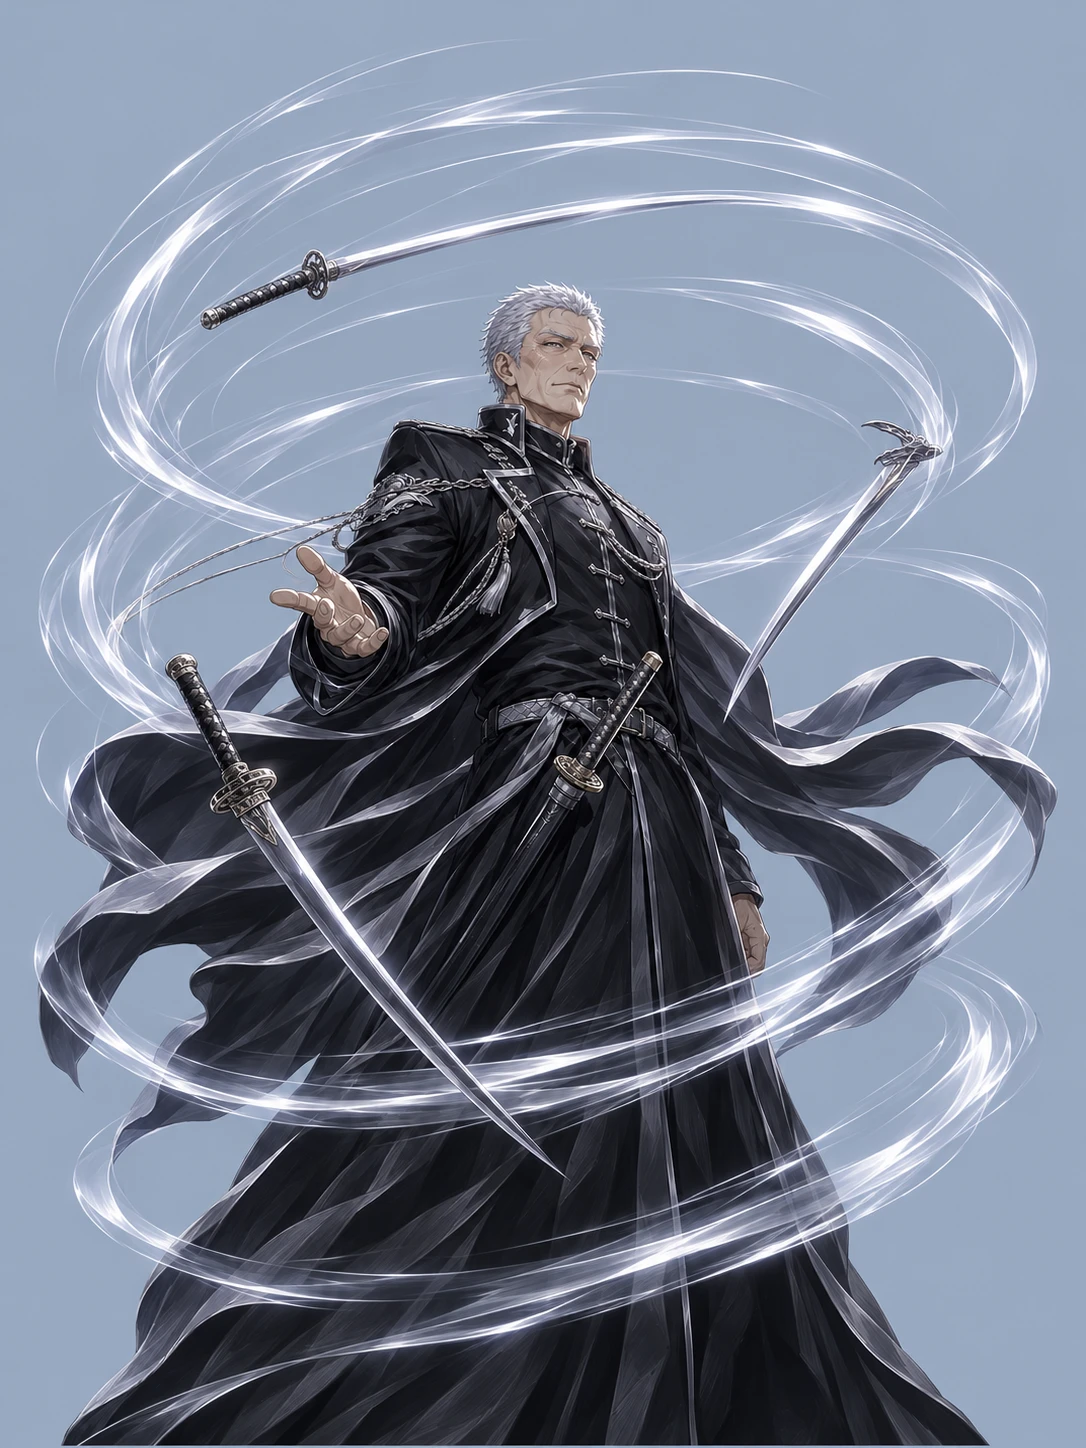
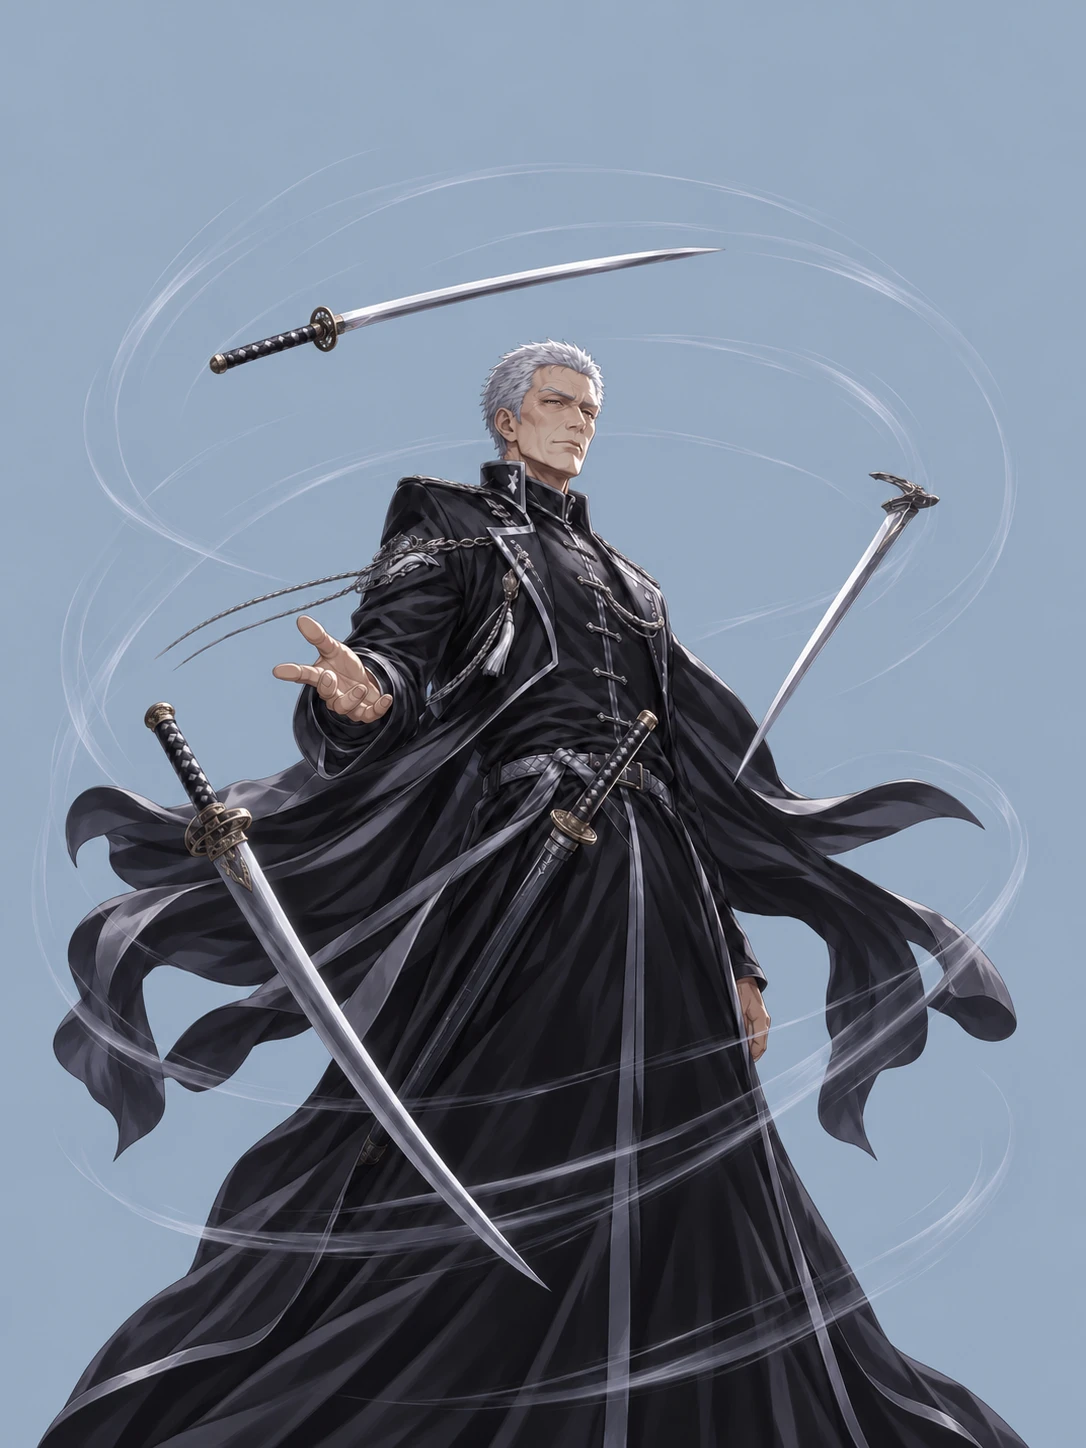
chore(preview): publish batch_jianshen_qi_v2 lighter 5-tier sword-qi picker

diff --git a/portrait-picker-jianshen/index.html b/portrait-picker-jianshen/index.html
@@ -3,7 +3,7 @@
 <head>
 <meta charset="UTF-8">
 <meta name="viewport" content="width=device-width, initial-scale=1.0">
-<title>剑神重抽 5 选 1（原图周身大环形银白剑气还原）</title>
+<title>剑神剑气淡化版 5 选 1（以原 #01 为对照 · 5 档清淡梯度）</title>
 <style>
 /* ==========================================================================
    《转生千金》立绘 5 选 1 交互审图工坊 · 棱镜冰晶雪瓷视觉体系
@@ -2172,7 +2172,7 @@ body.view-large .btn-zoom .zoom-txt {
 
 <div class="toast" id="toast" role="status" aria-live="polite"></div>
 
-<script id="showcase-data" type="application/json">{"batch_id":"batch_jianshen_qi","batch_label":"剑神重抽 5 选 1（原图周身大环形银白剑气还原）","title":"剑神重抽 5 选 1（原图周身大环形银白剑气还原）","subtitle":"以原初未抠神图为基准，完整还原环绕周身的大幅同心银白剑气环弧与四柄佩剑/飞剑，换净为偏中浅冷银灰蓝纯平底 #A6B5C7，左右顶安全留边、下摆贴底","characters":[{"id":"jianshen_normal","name":"剑神","role_tag":"七大列强 · 剑道极巅（年长男性）","sample_line":"剑意不在虚张声势。站稳了，接我这一眼看看。","original":{"src":"img/jianshen_normal/original.webp","defect":"精准还原原初未抠神图环绕周身（掠过头后、身侧与下摆）的大幅同心银白剑气弧光环阵与四剑构型，将暗风暴实景彻底洗净为偏中浅冷银灰蓝纯平底 #A6B5C7（衬托淡白剑气并兼顾同色系零溢色外抠），微退镜头完整收拢剑气环零切边","metrics":{"width":1024,"height":1536,"aspect":"2:3","margin_l":0.0,"margin_r":0.0,"margin_t":0.0,"margin_b":0.0,"bg_std":63.9,"bg_hex":"#12161f","is_transparent":false}},"candidates":[{"index":1,"label":"#01","src":"img/jianshen_normal/cand_01.webp","tag":"环弧标准版 #01 · 忠实复刻周身大环","note":"均衡还原原图周身多层同心银白剑气轨迹弧光与通透质感，左右顶留边、下摆贴底","metrics":{"width":1086,"height":1448,"aspect":"3:4","margin_l":2.7,"margin_r":5.0,"margin_t":10.4,"margin_b":0.0,"bg_std":0.8,"bg_hex":"#99AAC1","is_transparent":false}},{"index":2,"label":"#02","src":"img/jianshen_normal/cand_02.webp","tag":"轻盈透亮版 #02 · 清逸珠白剑气弧","note":"剑气弧光略微轻盈清透，珠白流光与利落锋尖勾勒周身大环气场","metrics":{"width":1086,"height":1448,"aspect":"3:4","margin_l":2.9,"margin_r":1.6,"margin_t":4.1,"margin_b":0.0,"bg_std":0.7,"bg_hex":"#9CABBF","is_transparent":false}},{"index":3,"label":"#03","src":"img/jianshen_normal/cand_03.webp","tag":"凌厉锐芒版 #03 · 锐利双轨同心环","note":"强调凌厉锐利的同心银白双轨剑意弧线，流畅贯穿三柄悬浮飞剑","metrics":{"width":1086,"height":1448,"aspect":"3:4","margin_l":3.1,"margin_r":2.6,"margin_t":2.8,"margin_b":0.0,"bg_std":0.7,"bg_hex":"#99A9C1","is_transparent":false}},{"index":4,"label":"#04","src":"img/jianshen_normal/cand_04.webp","tag":"饱满凝练版 #04 · 丰盈银霜剑阵气旋","note":"银白剑气环弧层次更饱满凝练，光影立体通透，强化剑神大环气势","metrics":{"width":1086,"height":1448,"aspect":"3:4","margin_l":3.3,"margin_r":2.6,"margin_t":7.2,"margin_b":0.0,"bg_std":0.7,"bg_hex":"#99AAC0","is_transparent":false}},{"index":5,"label":"#05","src":"img/jianshen_normal/cand_05.webp","tag":"收束舒展版 #05 · 优雅闭合星环阵","note":"大环形银白剑气整体略向内收拢闭合，留边最充裕、完整度最高","metrics":{"width":1086,"height":1448,"aspect":"3:4","margin_l":2.3,"margin_r":3.4,"margin_t":13.2,"margin_b":0.0,"bg_std":0.8,"bg_hex":"#9AAAC0","is_transparent":false}}]}]}</script>
+<script id="showcase-data" type="application/json">{"batch_id":"batch_jianshen_qi_v2","batch_label":"剑神剑气淡化版 5 选 1","title":"剑神剑气淡化版 5 选 1（以原 #01 为对照 · 5 档清淡梯度）","subtitle":"以原标准版 #01 为对比基准，100% 锁定剑神面容、银发、黑银礼服、姿势、全部四柄剑、构图留白与纯平冷银灰蓝底色 #9CAEC2，提供 75% → 60% → 45% → 35% → 25% 五档更轻薄通透的银白剑气环弧","characters":[{"id":"jianshen_normal","name":"剑神","role_tag":"七大列强 · 剑道极巅（年长男性）","sample_line":"剑意不在虚张声势。站稳了，接我这一眼看看。","original":{"src":"img/jianshen_normal/original.webp","defect":"对照原标准版 #01，100% 锁定剑神本体、四柄剑、构图与 #9CAEC2 纯平冷银灰蓝底色，仅将周身大环形银白剑气弧光逐档调淡为 75% / 60% / 45% / 35% / 25% 清透克制质感","metrics":{"width":1086,"height":1448,"aspect":"3:4","margin_l":2.7,"margin_r":5.0,"margin_t":10.4,"margin_b":0.0,"bg_std":0.8,"bg_hex":"#99aac1","is_transparent":false}},"candidates":[{"index":1,"label":"#01","src":"img/jianshen_normal/cand_01.webp","tag":"轻淡 75% 透明感 · #01","note":"较原 #01 温和淡化（约 70% 可见度），保留完整环形动势且更清透轻盈","metrics":{"width":1086,"height":1448,"aspect":"3:4","margin_l":2.9,"margin_r":5.1,"margin_t":10.8,"margin_b":0.0,"bg_std":0.9,"bg_hex":"#96AAC1","is_transparent":false}},{"index":2,"label":"#02","src":"img/jianshen_normal/cand_02.webp","tag":"清透 60% 淡雾弧 · #02","note":"轻盈薄纱淡雾剑气轨迹（约 55% 可见度），通透飘逸、人物轮廓更利落","metrics":{"width":1086,"height":1448,"aspect":"3:4","margin_l":3.5,"margin_r":5.2,"margin_t":11.7,"margin_b":0.0,"bg_std":0.8,"bg_hex":"#95A9BF","is_transparent":false}},{"index":3,"label":"#03","src":"img/jianshen_normal/cand_03.webp","tag":"极轻 45% 纤细微弧 · #03","note":"极轻纤细的半透明白弧（约 45% 可见度），精致克制的极简剑意光环","metrics":{"width":1086,"height":1448,"aspect":"3:4","margin_l":3.5,"margin_r":5.3,"margin_t":11.4,"margin_b":0.0,"bg_std":0.7,"bg_hex":"#97ABC1","is_transparent":false}},{"index":4,"label":"#04","src":"img/jianshen_normal/cand_04.webp","tag":"淡雅 35% 极薄清风线 · #04","note":"极薄清雅的银白清风丝（约 35% 可见度），含蓄微光流动感、主体锐利聚焦","metrics":{"width":1086,"height":1448,"aspect":"3:4","margin_l":3.4,"margin_r":5.7,"margin_t":17.1,"margin_b":0.0,"bg_std":0.8,"bg_hex":"#97AAC1","is_transparent":false}},{"index":5,"label":"#05","src":"img/jianshen_normal/cand_05.webp","tag":"微光 25% 隐约气旋丝 · #05","note":"极纤细轻灵的隐约微光剑意丝（约 25% 可见度），底面最澄净、视觉百分百聚焦人物","metrics":{"width":1086,"height":1448,"aspect":"3:4","margin_l":3.2,"margin_r":5.4,"margin_t":11.6,"margin_b":0.0,"bg_std":0.8,"bg_hex":"#96A9C0","is_transparent":false}}]}]}</script>
 <script>
 (function () {
   "use strict";
